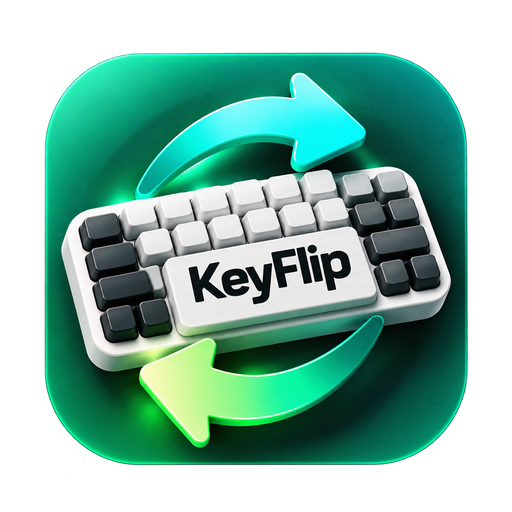
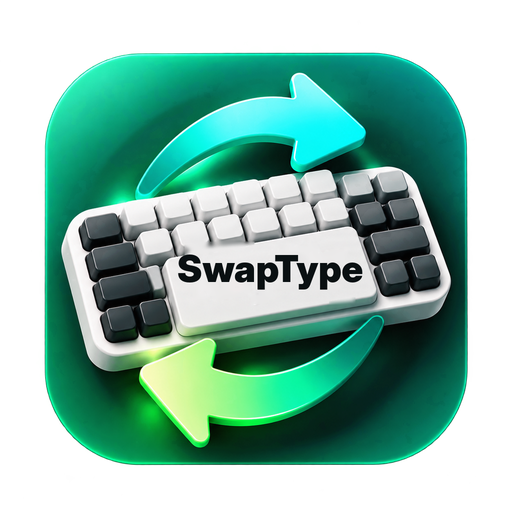
SwapType 1.0.2: new name (formerly KeyFlip), why we renamed, what's new
Claude-Session: https://claude.ai/code/session_01QtLSLnNS7u543ER1oL3RsF

Changed region(s): [[0.3438, 0.4688, 0.7188, 0.5938]]

diff --git a/LICENSE.md b/LICENSE.md
@@ -1,91 +1,91 @@
-# KeyFlip — End User License Agreement
+# SwapType — End User License Agreement
 
-**Version 1.0 · October 2026**
+**Version 1.1 · November 2026** · SwapType was called KeyFlip before version 1.0.2; this agreement covers the app under both names.
 
-KeyFlip is free software in the sense of *freeware*: it costs nothing, but it is not open source. By installing or using KeyFlip you agree to this agreement. [Русский текст ниже.](#keyflip--пользовательское-соглашение)
+SwapType is free software in the sense of *freeware*: it costs nothing, but it is not open source. By installing or using SwapType you agree to this agreement. [Русский текст ниже.](#swaptype--пользовательское-соглашение)
 
 ## 1. Ownership
 
-KeyFlip and all its parts, except the third-party materials listed in section 6, are © 2026 s1n. All rights not expressly granted here are reserved.
+SwapType and all its parts, except the third-party materials listed in section 6, are © 2026 s1n. All rights not expressly granted here are reserved.
 
 ## 2. What you may do — free of charge
 
-- Install and use KeyFlip on any number of computers, for personal and commercial purposes (at home and at work).
-- Share KeyFlip with others, as long as you share the **unmodified** official installer (or a link to the official [Releases](https://github.com/xs1n/keyflip/releases) page) and charge nothing for it.
+- Install and use SwapType on any number of computers, for personal and commercial purposes (at home and at work).
+- Share SwapType with others, as long as you share the **unmodified** official installer (or a link to the official [Releases](https://github.com/xs1n/keyflip/releases) page) and charge nothing for it.
 
 ## 3. What you may not do
 
-- Sell KeyFlip, charge for it, or bundle it with paid products or services.
-- Modify KeyFlip, or distribute modified copies.
-- Decompile, disassemble or otherwise reverse engineer KeyFlip, except to the extent the law where you live explicitly permits it regardless of this limitation.
+- Sell SwapType, charge for it, or bundle it with paid products or services.
+- Modify SwapType, or distribute modified copies.
+- Decompile, disassemble or otherwise reverse engineer SwapType, except to the extent the law where you live explicitly permits it regardless of this limitation.
 - Remove or change copyright notices, the author's name, or this agreement.
-- Present KeyFlip, in whole or in part, as your own work.
+- Present SwapType, in whole or in part, as your own work.
 
 ## 4. Privacy
 
-KeyFlip works on your computer. It collects no analytics and does not store or transmit the text you type. Its only network access is the update check: about once a day it asks the KeyFlip releases page on GitHub for the latest version number, and it downloads a new version only when you choose to install it. The automatic check can be turned off in the KeyFlip settings.
+SwapType works on your computer. It collects no analytics and does not store or transmit the text you type. Its only network access is the update check: about once a day it asks the SwapType releases page on GitHub for the latest version number, and it downloads a new version only when you choose to install it. The automatic check can be turned off in the SwapType settings.
 
 ## 5. No warranty and limitation of liability
 
-KeyFlip is provided **“as is”**, without warranty of any kind, express or implied, including fitness for a particular purpose. KeyFlip changes text as you type; always check important text. To the maximum extent permitted by law, the author is not liable for any damages arising from the use of, or inability to use, KeyFlip, including lost or altered data.
+SwapType is provided **“as is”**, without warranty of any kind, express or implied, including fitness for a particular purpose. SwapType changes text as you type; always check important text. To the maximum extent permitted by law, the author is not liable for any damages arising from the use of, or inability to use, SwapType, including lost or altered data.
 
 ## 6. Third-party materials
 
-KeyFlip includes word lists derived from [FrequencyWords](https://github.com/hermitdave/FrequencyWords) by Hermit Dave, licensed under [Creative Commons Attribution-ShareAlike 4.0](https://creativecommons.org/licenses/by-sa/4.0/). These word lists are **not** covered by sections 1–3: they remain under CC BY-SA 4.0, and you may use them under the terms of that license. See [NOTICE](NOTICE.md).
+SwapType includes word lists derived from [FrequencyWords](https://github.com/hermitdave/FrequencyWords) by Hermit Dave, licensed under [Creative Commons Attribution-ShareAlike 4.0](https://creativecommons.org/licenses/by-sa/4.0/). These word lists are **not** covered by sections 1–3: they remain under CC BY-SA 4.0, and you may use them under the terms of that license. See [NOTICE](NOTICE.md).
 
 ## 7. Termination
 
-This agreement ends automatically if you break it; you must then stop using KeyFlip and delete all copies.
+This agreement ends automatically if you break it; you must then stop using SwapType and delete all copies.
 
 ## 8. Changes
 
-New versions of KeyFlip may come with an updated agreement. The agreement included with a version applies to that version.
+New versions of SwapType may come with an updated agreement. The agreement included with a version applies to that version.
 
 Contact: s1n — [xsinus@gmail.com](mailto:xsinus@gmail.com)
 
 ---
 
-# KeyFlip — пользовательское соглашение
+# SwapType — пользовательское соглашение
 
-**Версия 1.0 · октябрь 2026**
+**Версия 1.1 · ноябрь 2026** · До версии 1.0.2 SwapType назывался KeyFlip; соглашение действует для программы под обоими названиями.
 
-KeyFlip — бесплатная программа (freeware): она ничего не стоит, но её исходный код закрыт. Устанавливая или используя KeyFlip, вы соглашаетесь с этим соглашением. Если русский и английский тексты расходятся, применяется английский.
+SwapType — бесплатная программа (freeware): она ничего не стоит, но её исходный код закрыт. Устанавливая или используя SwapType, вы соглашаетесь с этим соглашением. Если русский и английский тексты расходятся, применяется английский.
 
 ## 1. Права на программу
 
-KeyFlip и все его части, кроме сторонних материалов из раздела 6, принадлежат s1n, © 2026. Все права, которые прямо не предоставлены здесь, сохраняются за автором.
+SwapType и все его части, кроме сторонних материалов из раздела 6, принадлежат s1n, © 2026. Все права, которые прямо не предоставлены здесь, сохраняются за автором.
 
 ## 2. Что можно — бесплатно
 
-- Устанавливать и использовать KeyFlip на любом количестве компьютеров, в личных и коммерческих целях (дома и на работе).
-- Делиться KeyFlip с другими, если вы передаёте **неизменённый** официальный установщик (или ссылку на официальную страницу [Releases](https://github.com/xs1n/keyflip/releases)) и ничего за это не берёте.
+- Устанавливать и использовать SwapType на любом количестве компьютеров, в личных и коммерческих целях (дома и на работе).
+- Делиться SwapType с другими, если вы передаёте **неизменённый** официальный установщик (или ссылку на официальную страницу [Releases](https://github.com/xs1n/keyflip/releases)) и ничего за это не берёте.
 
 ## 3. Что нельзя
 
-- Продавать KeyFlip, брать за него плату или включать его в платные продукты и услуги.
-- Изменять KeyFlip или распространять изменённые копии.
-- Декомпилировать, дизассемблировать или иным образом исследовать устройство KeyFlip, кроме случаев, когда закон вашей страны прямо разрешает это независимо от такого ограничения.
+- Продавать SwapType, брать за него плату или включать его в платные продукты и услуги.
+- Изменять SwapType или распространять изменённые копии.
+- Декомпилировать, дизассемблировать или иным образом исследовать устройство SwapType, кроме случаев, когда закон вашей страны прямо разрешает это независимо от такого ограничения.
 - Удалять или изменять сведения об авторских правах, имя автора или это соглашение.
-- Выдавать KeyFlip целиком или частично за свою работу.
+- Выдавать SwapType целиком или частично за свою работу.
 
 ## 4. Конфиденциальность
 
-KeyFlip работает на вашем компьютере. Он не собирает аналитику, не сохраняет и не передаёт набираемый текст. Единственное обращение к сети — проверка обновлений: примерно раз в день KeyFlip узнаёт на странице релизов KeyFlip на GitHub номер последней версии и скачивает новую версию, только если вы сами решили её установить. Автоматическую проверку можно выключить в настройках KeyFlip.
+SwapType работает на вашем компьютере. Он не собирает аналитику, не сохраняет и не передаёт набираемый текст. Единственное обращение к сети — проверка обновлений: примерно раз в день SwapType узнаёт на странице релизов SwapType на GitHub номер последней версии и скачивает новую версию, только если вы сами решили её установить. Автоматическую проверку можно выключить в настройках SwapType.
 
 ## 5. Отсутствие гарантий и ограничение ответственности
 
-KeyFlip предоставляется **«как есть»**, без каких-либо гарантий, явных или подразумеваемых, в том числе пригодности для определённой цели. KeyFlip изменяет текст во время набора — всегда проверяйте важные тексты. В максимальной степени, допустимой законом, автор не несёт ответственности за любой ущерб от использования KeyFlip или невозможности его использовать, включая потерю или изменение данных.
+SwapType предоставляется **«как есть»**, без каких-либо гарантий, явных или подразумеваемых, в том числе пригодности для определённой цели. SwapType изменяет текст во время набора — всегда проверяйте важные тексты. В максимальной степени, допустимой законом, автор не несёт ответственности за любой ущерб от использования SwapType или невозможности его использовать, включая потерю или изменение данных.
 
 ## 6. Сторонние материалы
 
-KeyFlip содержит списки слов на основе [FrequencyWords](https://github.com/hermitdave/FrequencyWords) (Hermit Dave) по лицензии [Creative Commons Attribution-ShareAlike 4.0](https://creativecommons.org/licenses/by-sa/4.0/). На эти списки разделы 1–3 **не** распространяются: они остаются под CC BY-SA 4.0 и могут использоваться на условиях этой лицензии. См. [NOTICE](NOTICE.md).
+SwapType содержит списки слов на основе [FrequencyWords](https://github.com/hermitdave/FrequencyWords) (Hermit Dave) по лицензии [Creative Commons Attribution-ShareAlike 4.0](https://creativecommons.org/licenses/by-sa/4.0/). На эти списки разделы 1–3 **не** распространяются: они остаются под CC BY-SA 4.0 и могут использоваться на условиях этой лицензии. См. [NOTICE](NOTICE.md).
 
 ## 7. Прекращение
 
-Соглашение прекращается автоматически, если вы его нарушили; в этом случае нужно прекратить использование KeyFlip и удалить все копии.
+Соглашение прекращается автоматически, если вы его нарушили; в этом случае нужно прекратить использование SwapType и удалить все копии.
 
 ## 8. Изменения
 
-Новые версии KeyFlip могут выходить с обновлённым соглашением. К каждой версии применяется соглашение, которое идёт вместе с ней.
+Новые версии SwapType могут выходить с обновлённым соглашением. К каждой версии применяется соглашение, которое идёт вместе с ней.
 
 Связь: s1n — [xsinus@gmail.com](mailto:xsinus@gmail.com)

diff --git a/README.md b/README.md
@@ -1,66 +1,82 @@
-<p align="center"><img src="assets/icon.png" width="160" alt="KeyFlip icon"></p>
+<p align="center"><img src="assets/icon.png" width="160" alt="SwapType icon"></p>
 
-<h1 align="center">KeyFlip</h1>
+<h1 align="center">SwapType</h1>
+
+<p align="center"><i>formerly KeyFlip (before version 1.0.2)</i></p>
 
 <p align="center"><b>Free keyboard layout auto-switcher for macOS — Russian ↔ English.</b></p>
 
-Typed `ghbdtn` instead of «привет»? KeyFlip notices and fixes it as you type, and switches the layout for you. It lives in the menu bar, updates itself, and costs nothing.
+Typed `ghbdtn` instead of «привет»? SwapType notices and fixes it as you type, and switches the layout for you. It lives in the menu bar, updates itself, and costs nothing.
 
-[Download the latest version](../../releases/latest) · [How to install](INSTALL.md) · [Русская версия](README.ru.md) · [What's new](CHANGELOG.md) · [Report a problem](../../issues/new/choose) · [☕ Support](#support)
+[Download the latest version](../../releases/latest) · [How to install](INSTALL.md) · [Русская версия](README.ru.md) · [What's new](CHANGELOG.md) · [Report a problem](../../issues/new/choose) · [☕ Support](#support) · [Why the new name](#why-the-new-name)
 
 ---
 
-<p align="center"><img src="assets/screenshot-general.png" width="700" alt="KeyFlip settings window"></p>
+<p align="center"><img src="assets/screenshot-general.png" width="700" alt="SwapType settings window"></p>
+
+## Why the new name
+
+Let's be honest: we ran into a naming wall. The app started out as «Раскладушка», then became KeyFlip — and only after releasing 1.0.1 did we properly check whether the name was free. It wasn't. There are about a dozen projects called KeyFlip on GitHub, and [one of them](https://github.com/pyJIoH/KeyFlip) is almost the same thing: an English/Russian layout switcher for the Mac that also flips a word with ⌥. There are KeyFlip apps for Windows and browser extensions too. Two different apps with the same name doing the same job confuse everyone — in search, in reviews, in bug reports. Ours simply got lost.
+
+So starting with version 1.0.2 (November 16, 2026), KeyFlip is called **SwapType** — *swap* the layout while you *type*. This time we checked first: no projects with that name.
+
+**What it means for you:**
+- **Nothing to do.** If you have KeyFlip, it offers the update as usual. Afterwards you'll find SwapType in Applications, and KeyFlip is gone.
+- **Everything is kept:** settings, “My words”, “Learned”, stats and the Accessibility permission — no need to grant it again.
+- **Old links still work:** GitHub redirects addresses with keyflip to swaptype.
+- Same app, same author, still free, no ads, no accounts. Only the name and the label on the icon changed.
+
+Sorry for the fuss — better to change the name now than later.
 
 ## What it does
 
-- **Fixes words typed in the wrong layout.** After a space, Return, Tab or punctuation, KeyFlip checks the word you just typed. If it was clearly meant for the other layout, it retypes it and switches the layout: `ghbdtn` → «привет», `руддщ` → `hello`.
+- **Fixes words typed in the wrong layout.** After a space, Return, Tab or punctuation, SwapType checks the word you just typed. If it was clearly meant for the other layout, it retypes it and switches the layout: `ghbdtn` → «привет», `руддщ` → `hello`.
 - **Handles short words too.** `d ujhjl` → «в город». If you typed `f`, switched the layout by hand and went on with «не», it still becomes «а не». Real short words stay: «в USB», «a day».
 - **Stays out of your way.** Ordinary words, abbreviations and names like ok, zoom, git, docker are left alone.
 - **Flip by hand — with the keys you like.** Tap ⌥ Option, double-tap Shift, or set your own shortcut to flip the last word — the whole thing up to the space, digits included: `чы1т` → `xs1n`. Tap again to flip back; right after an automatic fix the same key undoes it. With text selected, the whole selection is flipped. Prefer Caramba-style Shift (double — flip the word, single — switch the layout)? It's one click in the menu.
-- **Learns from you.** Undo a fix, or erase it and type the same thing again — KeyFlip remembers the word. Flip a word it missed — it learns it the second time.
+- **Learns from you.** Undo a fix, or erase it and type the same thing again — SwapType remembers the word. Flip a word it missed — it learns it the second time.
 - **Two dictionaries: “My words” and “Learned”.** Add your nicknames, brand names and slang to “My words”; “Learned” fills up by itself. Words from either are never changed, and are recognised when typed in the wrong layout. Instant search in either layout, one file to export and import both.
-- **Small typo fixes:** «пирогб» → «пирог,», «ПРивет» → «Привет», «пРИВЕТ» (Caps Lock, which KeyFlip then turns off) → «Привет».
+- **Small typo fixes:** «пирогб» → «пирог,», «ПРивет» → «Привет», «пРИВЕТ» (Caps Lock, which SwapType then turns off) → «Привет».
 - **Particles and glued words:** «почемуто» → «почему-то», «кембы» → «кем бы», «сонатуБаха» → «сонату Баха».
 - **Knows brands, abbreviations and slang:** iPhone, YouTube, ООО, PDF, «кринж», bruh are never changed. Typed in the wrong layout they are fixed: `jjj` → «ООО», `nr` → «тк», `n/l/` → «т.д.».
 - **Capital letters where they belong:** a word you add to “My words” with a capital («Никита», «GitHub») is always written that way; «ул. ленина» → «ул. Ленина»; words you keep writing with a capital mid-sentence are learned.
 - **Leaves addresses and passwords alone.** E-mails, links and domains (`name@gmail.com`, `https://…`) are not touched, and neither is anything that looks like a password.
 - **Knows where not to work.** Off in games and in code editors and terminals out of the box; add any other app — “by hand only” or completely off. Need a break? **Pause** for 15 minutes, an hour or three.
 - **Sounds and stats.** A quiet click on every fix (any macOS sound or your own file), a different one when a word is learned; how many fixes, undos and new words today and in total.
-- **Updates itself.** Once a day KeyFlip checks for a new version and offers to install it — one click, no downloading .dmg files by hand. Or click **Check for updates** any time.
+- **Updates itself.** Once a day SwapType checks for a new version and offers to install it — one click, no downloading .dmg files by hand. Or click **Check for updates** any time.
 
 ## Install
 
-1. Download **KeyFlip.dmg** from [Releases](../../releases/latest), open it and drag KeyFlip to Applications.
+1. Download **SwapType.dmg** from [Releases](../../releases/latest), open it and drag SwapType to Applications.
 2. On first launch macOS says it can't check the app for malware — that's normal for free apps without a paid Apple signature. Click **Done**, then **System Settings → Privacy & Security → Open Anyway**.
-3. Allow KeyFlip in **Privacy & Security → Accessibility** — the welcome window shows you how.
+3. Allow SwapType in **Privacy & Security → Accessibility** — the welcome window shows you how.
 
 **Step-by-step guide with screenshots: [INSTALL.md](INSTALL.md)**
 
 **Requirements:** macOS 12 Monterey or later, Apple Silicon or Intel, with the Russian and English (US/ABC) layouts enabled.
 
-> The KeyFlip interface is in Russian.
+> The SwapType interface is in Russian.
 
 ## Privacy
 
-KeyFlip needs Accessibility access because it has to see what you type in order to fix it. Everything happens on your Mac:
+SwapType needs Accessibility access because it has to see what you type in order to fix it. Everything happens on your Mac:
 
 - no accounts, no analytics; the only network request is a once-a-day check of this page for a new version (you can turn it off), and an update is downloaded only when you click **Install**;
-- typed text is never sent anywhere and never written to disk — while you type, KeyFlip keeps only the current word and its last few fixes in memory;
-- the only words saved are the ones in your two dictionaries (“My words” and “Learned”), which you can see, search and delete in the KeyFlip window;
-- password fields are hidden from KeyFlip by macOS itself;
+- typed text is never sent anywhere and never written to disk — while you type, SwapType keeps only the current word and its last few fixes in memory;
+- the only words saved are the ones in your two dictionaries (“My words” and “Learned”), which you can see, search and delete in the SwapType window;
+- password fields are hidden from SwapType by macOS itself;
 - your dictionaries are stored locally in the app's settings and leave your Mac only if you export them.
 
 ## Feedback
 
-Found a word KeyFlip gets wrong, or have an idea? [Open an issue](../../issues/new/choose) or write to [xsinus@gmail.com](mailto:xsinus@gmail.com). Russian or English — both are fine.
+Found a word SwapType gets wrong, or have an idea? [Open an issue](../../issues/new/choose) or write to [xsinus@gmail.com](mailto:xsinus@gmail.com). Russian or English — both are fine.
 
 <a id="support"></a>
 ## 👋 Hi from s1n
 
-KeyFlip is a free app I make in my spare time — no ads, no accounts, no analytics. If it saves you from typing `ghbdtn` one more time and you'd like to say thanks, you can support its development. Every dollar helps and keeps KeyFlip free for everyone. ❤
+SwapType is a free app I make in my spare time — no ads, no accounts, no analytics. If it saves you from typing `ghbdtn` one more time and you'd like to say thanks, you can support its development. Every dollar helps and keeps SwapType free for everyone. ❤
 
-### ☕ Support KeyFlip
+### ☕ Support SwapType
 
 **Bybit** — send any amount to my Bybit UID **593603995** (Bybit app → Pay / Transfer → to a Bybit user by UID). Transfers between Bybit users are instant and free.
 
@@ -68,9 +84,9 @@ Not into crypto? A ⭐ on this page, a bug report in [Issues](../../issues/new/c
 
 ## License
 
-KeyFlip is **freeware**: free to use at home and at work, on as many Macs as you like, and free to share. It is not open source. See the [End User License Agreement](LICENSE.md).
+SwapType is **freeware**: free to use at home and at work, on as many Macs as you like, and free to share. It is not open source. See the [End User License Agreement](LICENSE.md).
 
-KeyFlip includes word lists from [FrequencyWords](https://github.com/hermitdave/FrequencyWords) by Hermit Dave, licensed under [CC BY-SA 4.0](https://creativecommons.org/licenses/by-sa/4.0/) — see [NOTICE](NOTICE.md).
+SwapType includes word lists from [FrequencyWords](https://github.com/hermitdave/FrequencyWords) by Hermit Dave, licensed under [CC BY-SA 4.0](https://creativecommons.org/licenses/by-sa/4.0/) — see [NOTICE](NOTICE.md).
 
 ---
 

diff --git a/INSTALL.md b/INSTALL.md
@@ -1,4 +1,4 @@
-# Installing KeyFlip
+# Installing SwapType
 
 [Русский](INSTALL.ru.md) · [Back to overview](README.md)
 
@@ -6,52 +6,52 @@ Takes a couple of minutes. You need macOS 12 or later (Apple Silicon or Intel) w
 
 ## 1. Download and drag to Applications
 
-1. Download **KeyFlip.dmg** from the [latest release](https://github.com/xs1n/keyflip/releases/latest).
+1. Download **SwapType.dmg** from the [latest release](https://github.com/xs1n/swaptype/releases/latest).
    If Chrome blocks the download, open Downloads (⌘⇧J) and click **Keep** — or download with Safari.
-2. Open KeyFlip.dmg and drag **KeyFlip** onto the **Applications** folder.
-3. Launch KeyFlip from Applications or with Spotlight (⌘ Space → “KeyFlip”).
+2. Open SwapType.dmg and drag **SwapType** onto the **Applications** folder.
+3. Launch SwapType from Applications or with Spotlight (⌘ Space → “SwapType”).
 
 ## 2. Allow it to open (first launch only)
 
-On first launch macOS shows this window (here in Russian — in English it reads *“KeyFlip” Not Opened*):
+On first launch macOS shows this window (here in Russian — in English it reads *“SwapType” Not Opened*):
 
-<p align="center"><img src="assets/macos-blocked-ru.png" width="320" alt="macOS window: KeyFlip Not Opened"></p>
+<p align="center"><img src="assets/macos-blocked-ru.png" width="320" alt="macOS window: SwapType Not Opened"></p>
 
-That's expected: macOS shows it for any app without a paid Apple signature. KeyFlip is free and works offline — it doesn't send anything anywhere.
+That's expected: macOS shows it for any app without a paid Apple signature. SwapType is free and works offline — it doesn't send anything anywhere.
 
 1. Click **Done**. ⚠ Don't click *Move to Trash*.
 2. Open **System Settings → Privacy & Security**.
-3. Scroll down to the **Security** section. You'll see *“KeyFlip” was blocked to protect your Mac* — click **Open Anyway**.
+3. Scroll down to the **Security** section. You'll see *“SwapType” was blocked to protect your Mac* — click **Open Anyway**.
 4. Enter your Mac password, then click **Open Anyway** once more.
 
 You won't see that window again.
 
-> **No “Open Anyway” button?** It shows for about an hour after a launch attempt. Launch KeyFlip again, then go straight to Settings.
+> **No “Open Anyway” button?** It shows for about an hour after a launch attempt. Launch SwapType again, then go straight to Settings.
 >
 > Or run this in Terminal (it removes the “downloaded from the internet” mark from the app):
 >
 > ```
-> xattr -dr com.apple.quarantine /Applications/KeyFlip.app
-> open /Applications/KeyFlip.app
+> xattr -dr com.apple.quarantine /Applications/SwapType.app
+> open /Applications/SwapType.app
 > ```
 
 ## 3. Allow keyboard access
 
-KeyFlip has to see what you type — otherwise there's nothing to fix. On first launch it shows a window that walks you through it.
+SwapType has to see what you type — otherwise there's nothing to fix. On first launch it shows a window that walks you through it.
 
-1. In the KeyFlip window, click the button that opens settings — **Privacy & Security → Accessibility** opens.
-2. Switch on **KeyFlip**. If it isn't in the list, drag its icon from the KeyFlip window straight into the list (or click **+** and pick KeyFlip in Applications).
-3. The KeyFlip window closes by itself and a keyboard icon ⌨ appears in the menu bar. Done — start typing.
+1. In the SwapType window, click the button that opens settings — **Privacy & Security → Accessibility** opens.
+2. Switch on **SwapType**. If it isn't in the list, drag its icon from the SwapType window straight into the list (or click **+** and pick SwapType in Applications).
+3. The SwapType window closes by itself and a keyboard icon ⌨ appears in the menu bar. Done — start typing.
 
 ## 4. Make it yours (optional)
 
-Click the ⌨ icon in the menu bar → **Open KeyFlip…**, or just launch KeyFlip again:
+Click the ⌨ icon in the menu bar → **Open SwapType…**, or just launch SwapType again:
 
 - **General** — open at login, sound, which ⌥ Option key flips a word;
-- **Dictionaries** — your own words (nicknames, brand names, slang) that KeyFlip leaves alone;
-- **Exclusions** — apps where you don't want KeyFlip.
+- **Dictionaries** — your own words (nicknames, brand names, slang) that SwapType leaves alone;
+- **Exclusions** — apps where you don't want SwapType.
 
-> The KeyFlip interface is in Russian.
+> The SwapType interface is in Russian.
 
 ## How to use it
 
@@ -61,14 +61,16 @@ Click the ⌨ icon in the menu bar → **Open KeyFlip…**, or just launch Ke
 
 ## Updating
 
-KeyFlip updates itself: once a day it checks for a new version and offers to install it — click **Установить** (Install), and it downloads the update, replaces itself and restarts. You can also check any time: menu bar icon → **Проверить обновления…** (Check for updates). Your dictionaries and settings stay.
+SwapType updates itself: once a day it checks for a new version and offers to install it — click **Установить** (Install), and it downloads the update, replaces itself and restarts. You can also check any time: menu bar icon → **Проверить обновления…** (Check for updates). Your dictionaries and settings stay.
 
-By hand: download the new KeyFlip.dmg and drag KeyFlip to Applications, replacing the old one. Since 1.0.1 KeyFlip is signed with its own certificate, so updates keep the Accessibility permission. Only when moving from 1.0 to 1.0.1 allow it once more: remove KeyFlip with **−** in Accessibility, start KeyFlip and switch it on.
+By hand: download the new SwapType.dmg and drag SwapType to Applications, replacing the old one. Since 1.0.1 the app is signed with its own certificate, so updates keep the Accessibility permission. Only when moving from 1.0 to 1.0.1 allow it once more: remove KeyFlip with **−** in Accessibility, start the app and switch it on.
+
+**From KeyFlip to SwapType** (1.0.2): nothing to do — the update renames the app itself and keeps your settings, dictionaries and permission. Updating by hand? Drag SwapType to Applications and start it; the old KeyFlip moves itself to the Trash.
 
 ## Uninstalling
 
 1. ⌨ menu bar icon → **Quit** (the last menu item).
-2. Drag KeyFlip from Applications to the Trash.
-3. Optionally, remove KeyFlip from **Privacy & Security → Accessibility** (the **−** button).
+2. Drag SwapType from Applications to the Trash.
+3. Optionally, remove SwapType from **Privacy & Security → Accessibility** (the **−** button).
 
-Something didn't work? [Open an issue](https://github.com/xs1n/keyflip/issues/new/choose) or write to [xsinus@gmail.com](mailto:xsinus@gmail.com).
+Something didn't work? [Open an issue](https://github.com/xs1n/swaptype/issues/new/choose) or write to [xsinus@gmail.com](mailto:xsinus@gmail.com).

diff --git a/CHANGELOG.ru.md b/CHANGELOG.ru.md
@@ -1,6 +1,21 @@
-# История изменений KeyFlip
+# История изменений SwapType (бывший KeyFlip)
 
 [English](CHANGELOG.md)
+
+## 1.0.2 — 16.11.2026
+
+**KeyFlip теперь называется SwapType.** Название KeyFlip оказалось занято — на GitHub около десятка проектов с таким именем, и один из них почти такой же переключатель раскладки для Мака. Подробно — в [README](README.ru.md#почему-новое-имя). Программа та же: обновление ставится само, настройки, словари и разрешение в «Универсальном доступе» сохраняются. После обновления в «Программах» будет SwapType вместо KeyFlip.
+
+**Исправлено**
+- Слова не в той раскладке иногда попадали в «Выученные» (например, `ghbdtn`) — и после этого больше не исправлялись. Теперь такая абракадабра не запоминается. Если она уже есть в «Выученных», удалите её там.
+- В Заметках, TextEdit, Pages и Почте перед исправлением программа снова сверяет, что у курсора то самое слово, — как и задумано. В остальных программах эта проверка по-прежнему выключена по умолчанию.
+
+**Новое** (всё выключено по умолчанию, включается в настройках)
+- **Буква «ё»:** «еще» → «ещё», «елка» → «ёлка».
+- **Запятая перед «но», «а», «однако», «зато»:** «хотел но» → «хотел, но».
+- **Лишняя удвоенная буква:** «приввет» → «привет».
+- **Цифры вместо знаков:** «привет1» → «привет!», «как7» → «как?», «0блако» → «Облако».
+
 
 ## 1.0.1 — 13.11.2026
 

diff --git a/CHANGELOG.md b/CHANGELOG.md
@@ -1,6 +1,21 @@
-# What's new in KeyFlip
+# What's new in SwapType (formerly KeyFlip)
 
 [Русская версия](CHANGELOG.ru.md)
+
+## 1.0.2 — 16.11.2026
+
+**KeyFlip is now called SwapType.** The name KeyFlip turned out to be taken — there are about a dozen projects with that name on GitHub, and one of them is almost the same layout switcher for the Mac. The full story is in the [README](README.md#why-the-new-name). It's the same app: the update installs itself, and your settings, dictionaries and Accessibility permission are kept. After the update you'll find SwapType in Applications instead of KeyFlip.
+
+**Fixed**
+- Words typed in the wrong layout sometimes ended up in “Learned” (`ghbdtn`, for example) — and from then on they were never fixed. Such gibberish is no longer learned. If it's already in “Learned”, delete it there.
+- In Notes, TextEdit, Pages and Mail the app again checks that the word at the cursor is the one it saw before fixing it, as intended. In other apps this check stays off by default.
+
+**New** (all off by default, turn them on in Settings)
+- **The letter «ё»:** «еще» → «ещё», «елка» → «ёлка».
+- **A comma before «но», «а», «однако», «зато»:** «хотел но» → «хотел, но».
+- **An extra doubled letter:** «приввет» → «привет».
+- **Digits instead of punctuation:** «привет1» → «привет!», «как7» → «как?», «0блако» → «Облако».
+
 
 ## 1.0.1 — November 13, 2026
 

diff --git a/NOTICE.md b/NOTICE.md
@@ -2,10 +2,10 @@
 
 ## FrequencyWords word lists
 
-KeyFlip uses Russian and English word frequency lists derived from **FrequencyWords** by Hermit Dave:
+SwapType uses Russian and English word frequency lists derived from **FrequencyWords** by Hermit Dave:
 <https://github.com/hermitdave/FrequencyWords>
 
 - License: [Creative Commons Attribution-ShareAlike 4.0 International (CC BY-SA 4.0)](https://creativecommons.org/licenses/by-sa/4.0/)
-- Changes made for KeyFlip: taken from the 2018 50k lists for `ru` and `en`; entries containing characters outside the Russian or English alphabet (other than `-` and `'`) removed; the letter «ё» replaced by «е»; duplicates merged.
+- Changes made for SwapType: taken from the 2018 50k lists for `ru` and `en`; entries containing characters outside the Russian or English alphabet (other than `-` and `'`) removed; the letter «ё» replaced by «е»; duplicates merged.
 
-The adapted lists are inside the app at `KeyFlip.app/Contents/Resources/ru.txt` and `en.txt` and are distributed under the same CC BY-SA 4.0 license. They are not covered by the KeyFlip End User License Agreement.
+The adapted lists are inside the app at `SwapType.app/Contents/Resources/ru.txt` and `en.txt` and are distributed under the same CC BY-SA 4.0 license. They are not covered by the SwapType End User License Agreement.
